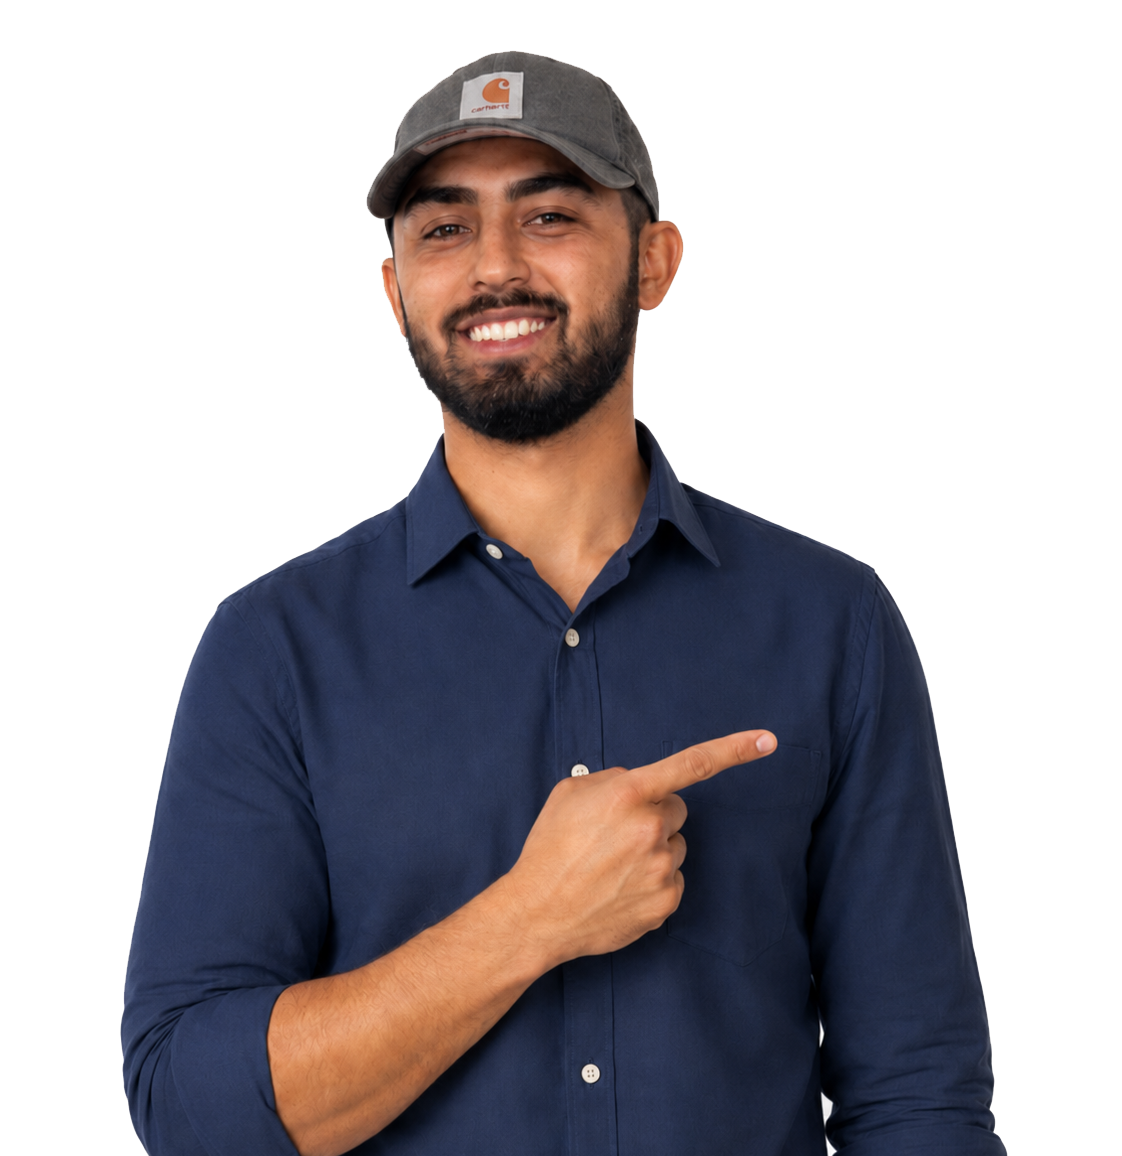
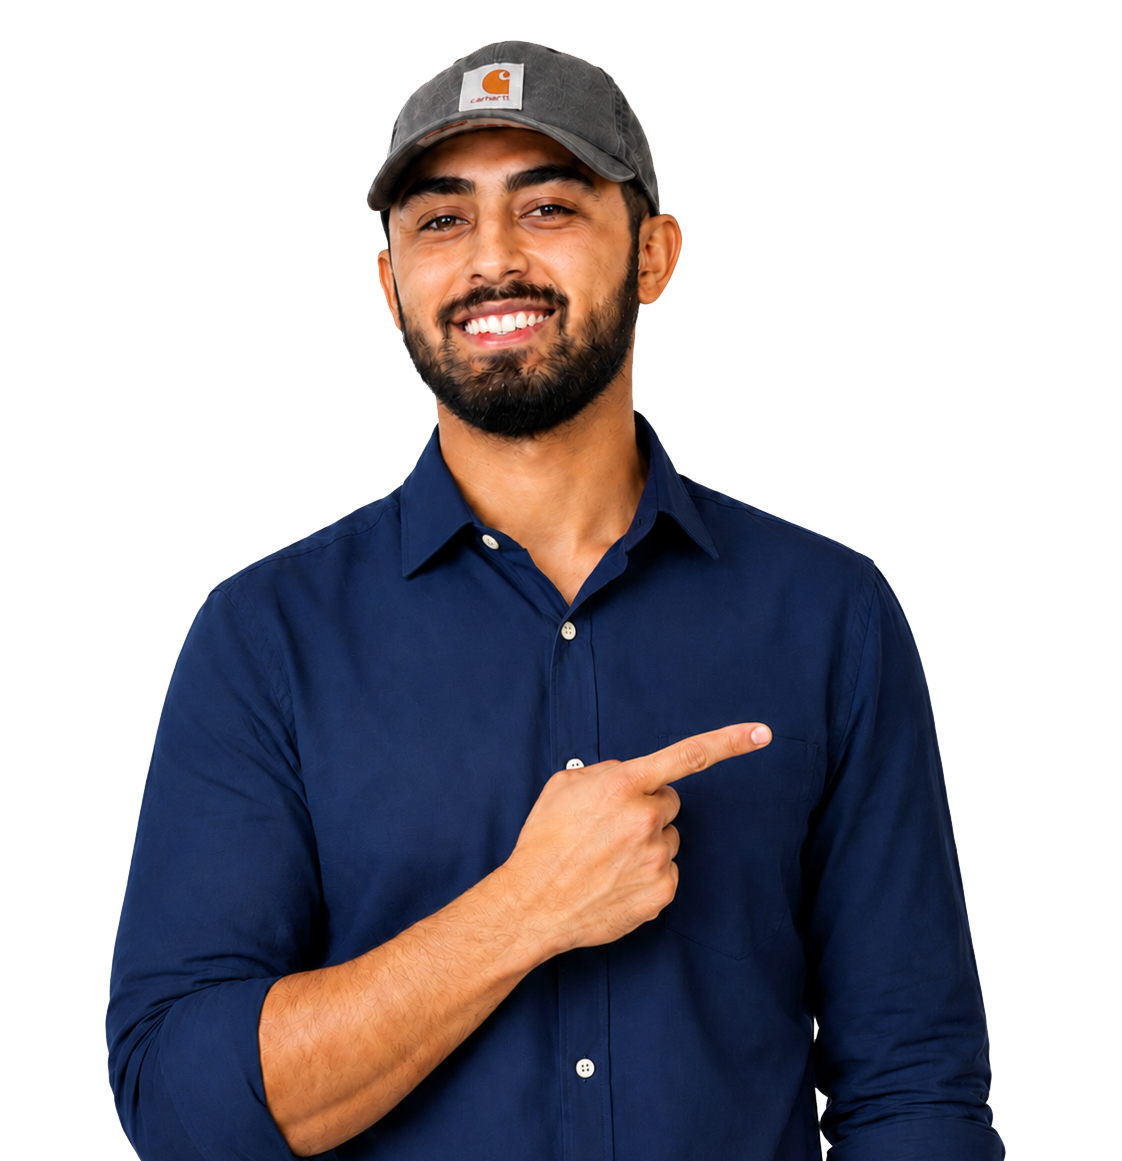
try this

diff --git a/src/styles/global.css b/src/styles/global.css
@@ -250,6 +250,71 @@ body {
   }
 }
 
+/* ============================================================================
+   Header nav — full-width dropdown band (scoped to .header-navigation).
+   The dropdown drops down flush under the header, spanning the full width,
+   with left-aligned stacked items and divider lines (i75/Flow Right style).
+   Unlayered so it overrides the dropdown's Tailwind utility classes.
+   ============================================================================ */
+@media (min-width: 1024px) {
+  /* Top-level items must NOT be the positioning context, so the dropdown
+     can anchor to the sticky <header> and span full width. */
+  .header-navigation .menu-desktop > ul > li {
+    position: static;
+  }
+
+  /* The dropdown wrapper: full-width band pinned under the header. */
+  .header-navigation .menu-dropdown {
+    position: absolute;
+    left: 0;
+    right: 0;
+    top: 100%;
+    margin-top: 0;
+  }
+
+  /* The dropdown list itself spans full width, blue gradient band. */
+  .header-navigation .menu-dropdown > ul {
+    position: static;
+    width: 100%;
+    min-width: 0;
+    max-width: 1600px;
+    margin: 0 auto;
+    padding: 0;
+    border: 0;
+    border-radius: 0;
+    box-shadow: 0 16px 32px rgba(5, 24, 48, 0.18);
+    background-image: linear-gradient(
+      120deg,
+      var(--color-brand-navy-dark) 0%,
+      var(--color-brand-navy) 50%,
+      var(--color-brand-navy-light) 100%
+    );
+    background-color: transparent;
+  }
+
+  /* Stacked, left-aligned items with divider lines between them. */
+  .header-navigation .menu-dropdown > ul > li {
+    width: 100%;
+    border-top: 1px solid rgba(255, 255, 255, 0.12);
+  }
+  .header-navigation .menu-dropdown > ul > li:first-child {
+    border-top: 0;
+  }
+
+  /* Dropdown links: white text, red on hover (no gradient fill here). */
+  .header-navigation .menu-dropdown .nav-link {
+    width: 100%;
+    padding: 16px 48px;
+    color: var(--color-bg);
+    background-image: none;
+  }
+  .header-navigation .menu-dropdown .nav-link:hover,
+  .header-navigation .menu-dropdown .nav-link:hover * {
+    color: var(--color-accent) !important;
+    background-image: none;
+  }
+}
+
 /* ==========================================================================
    BUTTONS
    ========================================================================== */